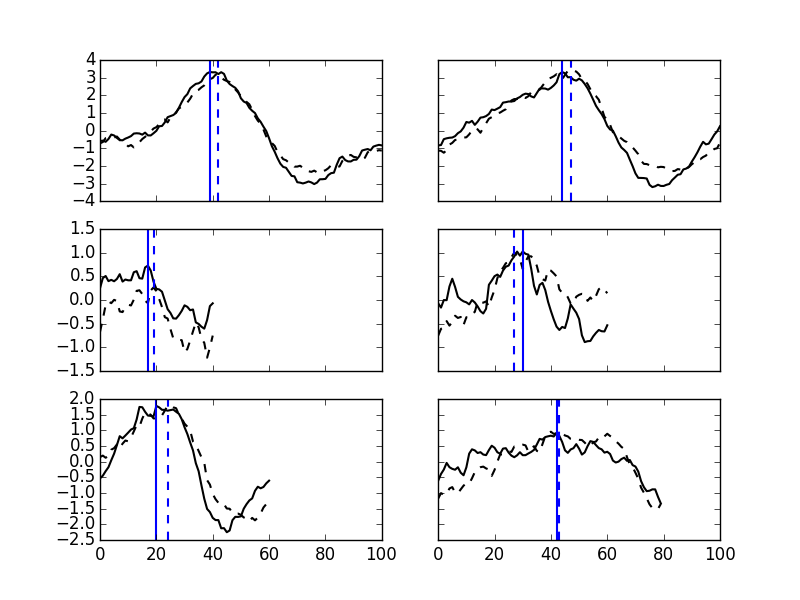
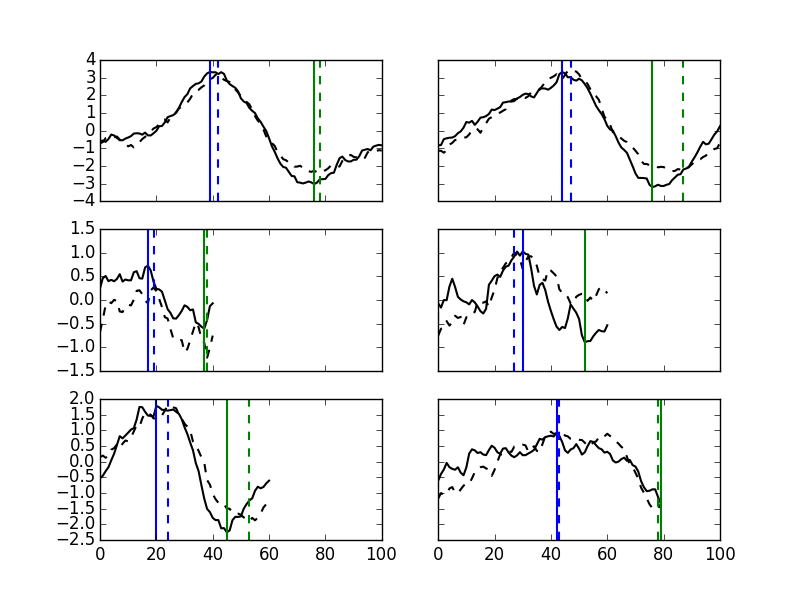
analysis crap

diff --git a/sandbox/plot_aredi800_contour_latitude_depth.py b/sandbox/plot_aredi800_contour_latitude_depth.py
@@ -1,0 +1,248 @@
+"""
+    Script to plot the timeseries of the aredi 800 simulation
+    """
+
+import iris
+import iris.analysis.cartography
+import iris.coord_categorisation
+import matplotlib.pyplot as plt
+import numpy as np
+import numpy as np
+import cartopy.crs as ccrs
+import matplotlib
+from netCDF4 import Dataset
+from scipy import signal
+
+import sys # access system routines
+sys.path.append('~/control_aredi800/python')
+from calc_OHC_OCC import calc_occ
+import sys # access system routines
+sys.path.append('/home/jthom143/python_functions')
+import colormaps as cmaps
+
+
+## Load Data ###
+'''
+    Files loaded in this script were created in 'plot_aredi_climatologies.py'
+    '''
+
+# Load Temp Data
+PATHS={'aredi_400':'~/control_aredi800/data/newCO2_control_400_ag/',
+    'aredi_800':'~/control_aredi800/data/newCO2_control_800/',
+        'aredi_2400':'~/control_aredi800/data/newCO2_control_2400_ag/',
+            'low_gm': '~/control_aredi800/data/gm_min_600/'
+    }
+
+dic = {}
+rhodzt = {}
+area = {}
+
+print 'loading data for:'
+for name, PATH in PATHS.iteritems():
+    print name
+    dic[name] = iris.load_cube(PATH+'dic.nc')
+    rhodzt[name] = iris.load_cube(PATH+'rho_dzt.nc')
+    area[name] = iris.load_cube(PATH+'area_t.nc')
+    
+    if name == 'aredi_800':
+        dic[name] = dic[name][-500:]
+    if name == 'aredi_2400':
+        dic[name] = dic[name][:500]
+        rhodzt[name] = rhodzt[name][:500]
+    if name == 'low_gm':
+        dic[name] = dic[name][:500]
+        rhodzt[name] = rhodzt[name][:500]
+
+## Calculate OCC ###
+names = {'aredi_400', 'aredi_800', 'aredi_2400', 'low_gm'}
+
+carbon = {}
+carbon_sumz = {}
+carbon_global = {}
+global_carbon_mean = {}
+global_carbon_anomaly = {}
+global_carbon_detrend = {}
+carbon_SH = {}
+carbon_SH_anomaly = {}
+carbon_SH_detrend = {}
+
+for name in names:
+    carbon[name], carbon_sumz[name], carbon_global[name] = calc_occ(dic[name], rhodzt[name], area[name])
+    global_carbon_mean[name] = carbon_global[name].collapsed('time', iris.analysis.MEAN)
+    global_carbon_anomaly[name] = carbon_global[name].data-global_carbon_mean[name].data
+    
+    # Southern Hemisphere:
+    constraint = iris.Constraint(latitude=lambda y: -90 < y < -50)
+    carbon_SH_tmp = carbon_sumz[name].extract(constraint)
+    area_SH = area[name].extract(constraint)
+    b = carbon_SH_tmp*area_SH
+    carbon_SH[name] = b.collapsed(['longitude', 'latitude'], iris.analysis.SUM)
+    mean_SH = carbon_SH[name].collapsed('time', iris.analysis.MEAN)
+    carbon_SH_anomaly[name] = carbon_SH[name] - mean_SH
+    
+    # Detrend with polynomial
+    x = np.arange(0, 500, 1)
+    
+    p1 = np.poly1d(np.polyfit(x, global_carbon_anomaly[name]/1e15, 4))
+    global_carbon_detrend[name] = global_carbon_anomaly[name]/1e15 - p1(x)
+    
+    p2 = np.poly1d(np.polyfit(x, carbon_SH_anomaly[name].data/1e15, 4))
+    carbon_SH_detrend[name] = carbon_SH_anomaly[name].data/1e15 - p2(x)
+
+
+
+# Divide timeseries up into maxima/minima cycles
+# Period 1: years 60-160
+p1_start = 60
+p1_end = 160
+period1 = global_carbon_detrend['aredi_800'][p1_start:p1_end]
+period1_sh = carbon_SH_detrend['aredi_800'][p1_start:p1_end]
+
+max = np.argmax(period1)
+max_sh = np.argmax(period1_sh)
+
+min = np.argmin(period1)
+min_sh = np.argmin(period1_sh)
+
+# Period 2: years 160-260
+p2_start = 160
+p2_end = 260
+period2 = global_carbon_detrend['aredi_800'][p2_start:p2_end]
+period2_sh = carbon_SH_detrend['aredi_800'][p2_start:p2_end]
+
+max2 = np.argmax(period2)
+max2_sh = np.argmax(period2_sh)
+
+min2 = np.argmin(period2)
+min2_sh = np.argmin(period2_sh)
+
+# Period 3: years 260-300
+p3_start = 260
+p3_end = 300
+period3 = global_carbon_detrend['aredi_800'][p3_start:p3_end]
+period3_sh = carbon_SH_detrend['aredi_800'][p3_start:p3_end]
+
+max3 = np.argmax(period3)
+max3_sh = np.argmax(period3_sh)
+
+min3 = np.argmin(period3)
+min3_sh = np.argmin(period3_sh)
+
+# Period 4: years 300-360
+p4_start = 300
+p4_end = 360
+period4 = global_carbon_detrend['aredi_800'][p4_start:p4_end]
+period4_sh = carbon_SH_detrend['aredi_800'][p4_start:p4_end]
+
+max4 = np.argmax(period4)
+max4_sh = np.argmax(period4_sh)
+
+min4 = np.argmin(period4)
+min4_sh = np.argmin(period4_sh)
+
+# Period 5: years 360-420
+p5_start = 360
+p5_end = 420
+period5 = global_carbon_detrend['aredi_800'][p5_start:p5_end]
+period5_sh = carbon_SH_detrend['aredi_800'][p5_start:p5_end]
+
+max5 = np.argmax(period5)
+max5_sh = np.argmax(period5_sh)
+
+min5 = np.argmin(period5)
+min5_sh = np.argmin(period5_sh)
+
+# Period 6: years 420-500
+p6_start = 420
+period6 = global_carbon_detrend['aredi_800'][p6_start:]
+period6_sh = carbon_SH_detrend['aredi_800'][p6_start:]
+
+max6 = np.argmax(period6)
+max6_sh = np.argmax(period6_sh)
+
+min6 = np.argmin(period6)
+min6_sh = np.argmin(period6_sh)
+
+## For each Convective cycle, plot the ocean carbon depth vs latitude at each maximum:
+f, ((ax1, ax2), (ax3, ax4), (ax5, ax6)) = plt.subplots(3, 2, sharex='col', sharey='row')
+datas = carbon['aredi_800'].collapsed('longitude', iris.analysis.MEAN)
+datas = datas[p1_start+min_sh,:,:]-datas[p1_start+min,:,:]
+clevs = np.arange(-16, 18, 2)
+
+ax1.contourf(datas.coord('latitude').points, datas.coord('tcell pstar').points, datas.data, clevs, cmap = 'RdBu_r', extend = 'both')
+ax1.invert_yaxis()
+
+
+datas = carbon['aredi_800'].collapsed('longitude', iris.analysis.MEAN)
+datas = datas[p2_start+min2_sh,:,:]-datas[p2_start+min2,:,:]
+ax2.contourf(datas.coord('latitude').points, datas.coord('tcell pstar').points, datas.data, clevs, cmap = 'RdBu_r', extend = 'both')
+
+
+datas = carbon['aredi_800'].collapsed('longitude', iris.analysis.MEAN)
+datas = datas[p3_start+min3_sh,:,:]-datas[p3_start+min3,:,:]
+ax3.contourf(datas.coord('latitude').points, datas.coord('tcell pstar').points, datas.data, clevs, cmap = 'RdBu_r', extend = 'both')
+ax3.invert_yaxis()
+
+
+datas = carbon['aredi_800'].collapsed('longitude', iris.analysis.MEAN)
+datas = datas[p4_start+min4_sh,:,:]-datas[p4_start+min4,:,:]
+ax4.contourf(datas.coord('latitude').points, datas.coord('tcell pstar').points, datas.data, clevs, cmap = 'RdBu_r', extend = 'both')
+
+
+datas = carbon['aredi_800'].collapsed('longitude', iris.analysis.MEAN)
+datas = datas[p5_start+min5_sh,:,:]-datas[p5_start+min5,:,:]
+ax5.contourf(datas.coord('latitude').points, datas.coord('tcell pstar').points, datas.data, clevs, cmap = 'RdBu_r', extend = 'both')
+ax5.invert_yaxis()
+
+
+datas = carbon['aredi_800'].collapsed('longitude', iris.analysis.MEAN)
+datas = datas[p6_start+min6_sh,:,:]-datas[p6_start+min6,:,:]
+ax6.contourf(datas.coord('latitude').points, datas.coord('tcell pstar').points, datas.data, clevs, cmap = 'RdBu_r', extend = 'both')
+plt.savefig('notes/figures/aredi800_occ_max_contour.png')
+
+
+
+
+
+f, ((ax1, ax2), (ax3, ax4), (ax5, ax6)) = plt.subplots(3, 2, sharex='col', sharey='row')
+datas = carbon['aredi_800'].collapsed('longitude', iris.analysis.MEAN)
+datas = datas[p1_start+min,:,:]-datas[p1_start+max,:,:]
+clevs = np.arange(-16, 18, 2)
+
+ax1.contourf(datas.coord('latitude').points, datas.coord('tcell pstar').points, datas.data, clevs, cmap = 'RdBu_r', extend = 'both')
+ax1.invert_yaxis()
+
+datas = carbon['aredi_800'].collapsed('longitude', iris.analysis.MEAN)
+datas = datas[p2_start+min2,:,:]-datas[p2_start+max2,:,:]
+ax2.contourf(datas.coord('latitude').points, datas.coord('tcell pstar').points, datas.data, clevs, cmap = 'RdBu_r', extend = 'both')
+
+
+datas = carbon['aredi_800'].collapsed('longitude', iris.analysis.MEAN)
+datas = datas[p3_start+min3,:,:]-datas[p3_start+max3,:,:]
+ax3.contourf(datas.coord('latitude').points, datas.coord('tcell pstar').points, datas.data, clevs, cmap = 'RdBu_r', extend = 'both')
+ax3.invert_yaxis()
+
+datas = carbon['aredi_800'].collapsed('longitude', iris.analysis.MEAN)
+datas = datas[p4_start+min4,:,:]-datas[p4_start+max4,:,:]
+ax4.contourf(datas.coord('latitude').points, datas.coord('tcell pstar').points, datas.data, clevs, cmap = 'RdBu_r', extend = 'both')
+
+
+datas = carbon['aredi_800'].collapsed('longitude', iris.analysis.MEAN)
+datas = datas[p5_start+min5,:,:]-datas[p5_start+max5,:,:]
+ax5.contourf(datas.coord('latitude').points, datas.coord('tcell pstar').points, datas.data, clevs, cmap = 'RdBu_r', extend = 'both')
+ax5.invert_yaxis()
+
+datas = carbon['aredi_800'].collapsed('longitude', iris.analysis.MEAN)
+datas = datas[p6_start+min6_sh,:,:]-datas[p6_start+min6,:,:]
+ax6.contourf(datas.coord('latitude').points, datas.coord('tcell pstar').points, datas.data, clevs, cmap = 'RdBu_r', extend = 'both')
+plt.savefig('notes/figures/aredi800_occ_min-max_contour.png')
+
+
+
+
+
+plt.show()
+
+
+
+

diff --git a/sandbox/plot_aredi800_timeseries.py b/sandbox/plot_aredi800_timeseries.py
@@ -1,7 +1,6 @@
-  
 """
-    Script to plot occ variance
-    """
+Script to plot the timeseries of the aredi 800 simulation
+"""
 
 import iris
 import iris.analysis.cartography
@@ -101,12 +100,18 @@ period1_sh = carbon_SH_detrend['aredi_800'][60:161]
 max = np.argmax(period1)
 max_sh = np.argmax(period1_sh)
 
+min = np.argmin(period1)
+min_sh = np.argmin(period1_sh)
+
 # Period 2: years 160-260
 period2 = global_carbon_detrend['aredi_800'][160:261]
 period2_sh = carbon_SH_detrend['aredi_800'][160:261]
 
 max2 = np.argmax(period2)
 max2_sh = np.argmax(period2_sh)
+
+min2 = np.argmin(period2)
+min2_sh = np.argmin(period2_sh)
 
 # Period 3: years 260-300
 period3 = global_carbon_detrend['aredi_800'][260:301]
@@ -115,12 +120,18 @@ period3_sh = carbon_SH_detrend['aredi_800'][260:301]
 max3 = np.argmax(period3)
 max3_sh = np.argmax(period3_sh)
 
+min3 = np.argmin(period3)
+min3_sh = np.argmin(period3_sh)
+
 # Period 4: years 300-360
 period4 = global_carbon_detrend['aredi_800'][300:361]
 period4_sh = carbon_SH_detrend['aredi_800'][300:361]
 
 max4 = np.argmax(period4)
 max4_sh = np.argmax(period4_sh)
+
+min4 = np.argmin(period4)
+min4_sh = np.argmin(period4_sh)
 
 # Period 5: years 360-420
 period5 = global_carbon_detrend['aredi_800'][360:421]
@@ -129,6 +140,9 @@ period5_sh = carbon_SH_detrend['aredi_800'][360:421]
 max5 = np.argmax(period5)
 max5_sh = np.argmax(period5_sh)
 
+min5 = np.argmin(period5)
+min5_sh = np.argmin(period5_sh)
+
 # Period 6: years 420-500
 period6 = global_carbon_detrend['aredi_800'][420:]
 period6_sh = carbon_SH_detrend['aredi_800'][420:]
@@ -136,41 +150,56 @@ period6_sh = carbon_SH_detrend['aredi_800'][420:]
 max6 = np.argmax(period6)
 max6_sh = np.argmax(period6_sh)
 
+min6 = np.argmin(period6)
+min6_sh = np.argmin(period6_sh)
+
 #fig3 = plt.figure(figsize = (8, 10))
 f, ((ax1, ax2), (ax3, ax4), (ax5, ax6)) = plt.subplots(3, 2, sharex='col', sharey='row')
 ax1.plot(period1, color = 'k', lw = 1.5)
 ax1.plot(period1_sh, color = 'k', lw = 1.5, ls = '--')
 ax1.axvline(max, color = 'b', lw = 1.5)
 ax1.axvline(max_sh, color = 'b', lw = 1.5, ls = '--')
+ax1.axvline(min, color = 'g', lw = 1.5)
+ax1.axvline(min_sh, color = 'g', lw = 1.5, ls = '--')
 
 ax2.plot(period2, color = 'k', lw = 1.5)
 ax2.plot(period2_sh, color = 'k', lw = 1.5, ls = '--')
 ax2.axvline(max2, color = 'b', lw = 1.5)
 ax2.axvline(max2_sh, color = 'b', lw = 1.5, ls = '--')
+ax2.axvline(min2, color = 'g', lw = 1.5)
+ax2.axvline(min2_sh, color = 'g', lw = 1.5, ls = '--')
 
 ax3.plot(period3, color = 'k', lw = 1.5)
 ax3.plot(period3_sh, color = 'k', lw = 1.5, ls = '--')
 ax3.axvline(max3, color = 'b', lw = 1.5)
 ax3.axvline(max3_sh, color = 'b', lw = 1.5, ls = '--')
+ax3.axvline(min3, color = 'g', lw = 1.5)
+ax3.axvline(min3_sh, color = 'g', lw = 1.5, ls = '--')
 
 ax4.plot(period4, color = 'k', lw = 1.5)
 ax4.plot(period4_sh, color = 'k', lw = 1.5, ls = '--')
 ax4.axvline(max4, color = 'b', lw = 1.5)
 ax4.axvline(max4_sh, color = 'b', lw = 1.5, ls = '--')
+ax4.axvline(min4, color = 'g', lw = 1.5)
+ax4.axvline(min4_sh, color = 'g', lw = 1.5, ls = '--')
 
 ax5.plot(period5, color = 'k', lw = 1.5)
 ax5.plot(period5_sh, color = 'k', lw = 1.5, ls = '--')
 ax5.axvline(max5, color = 'b', lw = 1.5)
 ax5.axvline(max5_sh, color = 'b', lw = 1.5, ls = '--')
+ax5.axvline(min5, color = 'g', lw = 1.5)
+ax5.axvline(min5_sh, color = 'g', lw = 1.5, ls = '--')
 
 ax6.plot(period6, color = 'k', lw = 1.5)
 ax6.plot(period6_sh, color = 'k', lw = 1.5, ls = '--')
 ax6.axvline(max6, color = 'b', lw = 1.5)
 ax6.axvline(max6_sh, color = 'b', lw = 1.5, ls = '--')
+ax6.axvline(min6, color = 'g', lw = 1.5)
+ax6.axvline(min6_sh, color = 'g', lw = 1.5, ls = '--')
 plt.savefig('notes/figures/aredi800_occ_timelag.png')
 
 
-
+print 'difference between southern ocean maximum occ and global maximum occ:'
 print max_sh-max
 print max2_sh-max2
 print max3_sh-max3
@@ -178,6 +207,13 @@ print max4_sh-max4
 print max5_sh-max5
 print max6_sh-max6
 
+print 'difference between southern ocean minimum occ and global minimum occ:'
+print min_sh-min
+print min2_sh-min2
+print min3_sh-min3
+print min4_sh-min4
+print min5_sh-min5
+print min6_sh-min6
 
 
 
